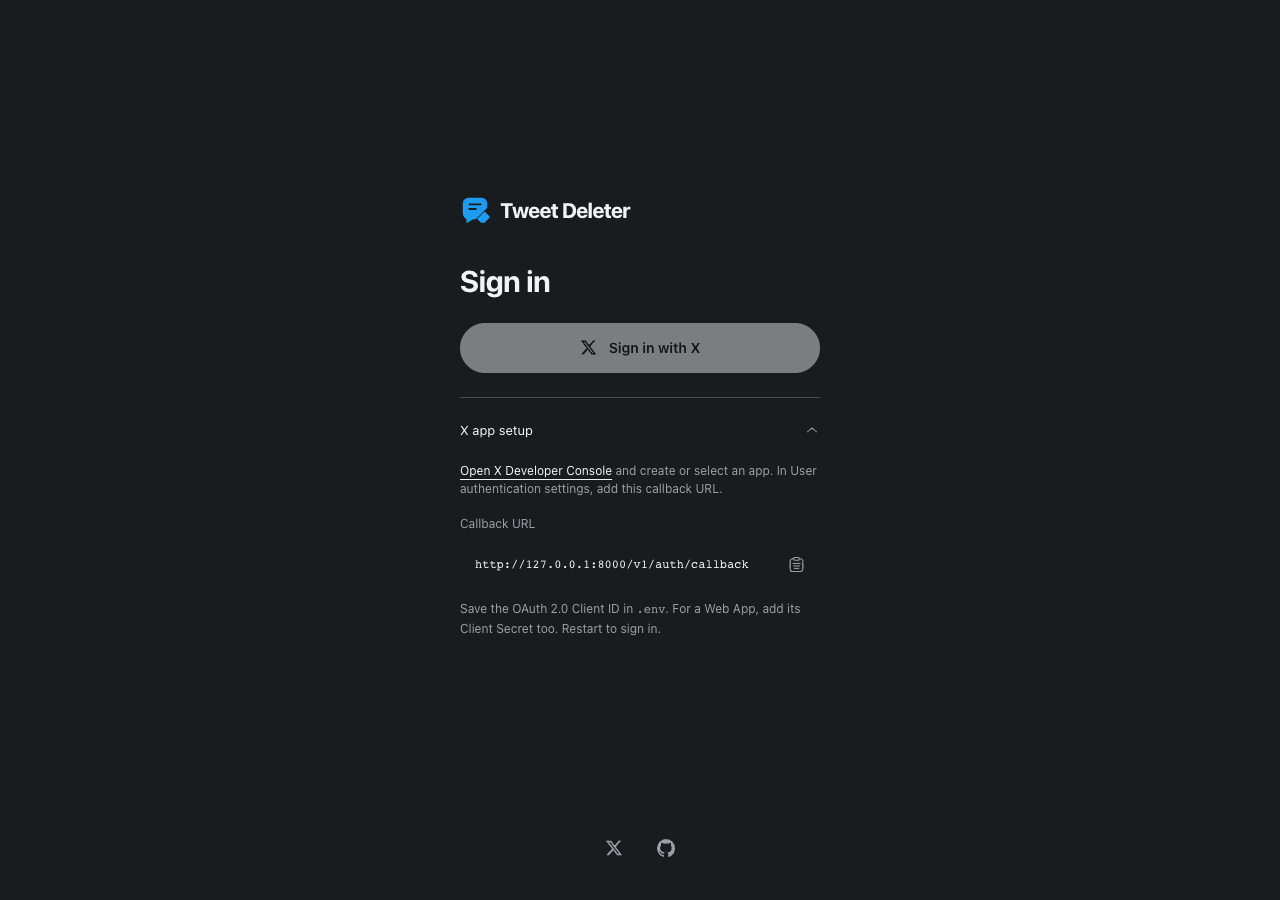
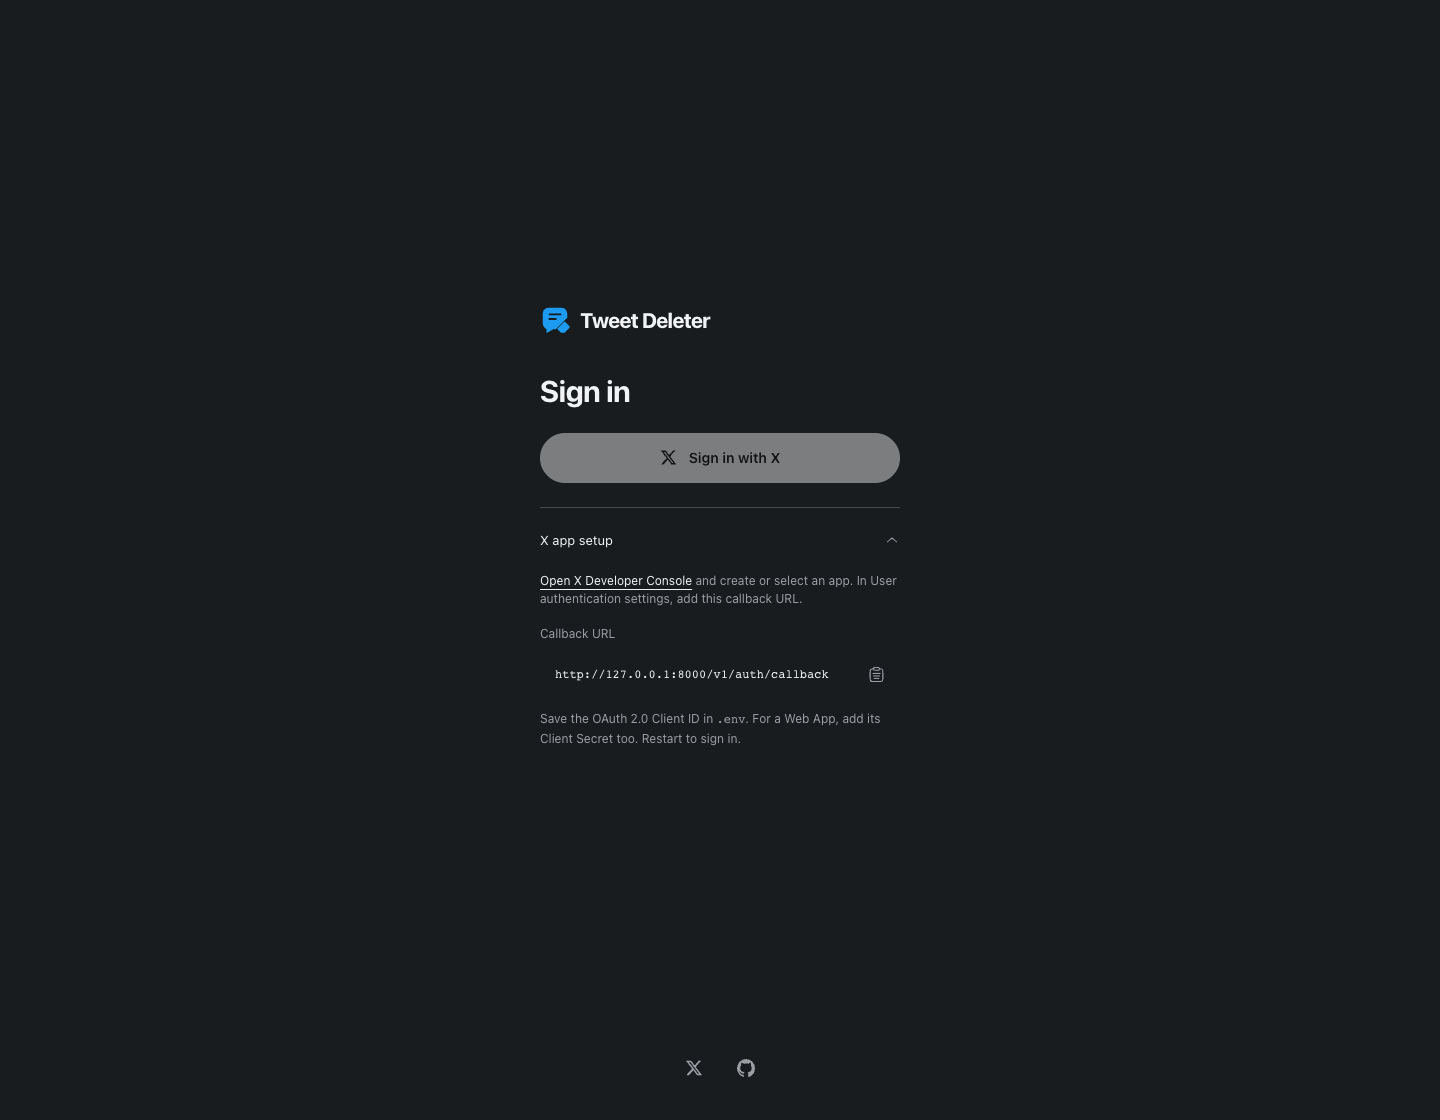
Match README screenshot dimensions

diff --git a/docs/screenshots/README.md b/docs/screenshots/README.md
@@ -39,6 +39,7 @@ cp output/playwright/sign-in-setup.png output/playwright/sign-in.png output/play
 ```
 
 The clock is fixed to 26 November 2026 for stable date groups and cooldown labels.
-Sign-in is 1280 × 800 and app setup is 1280 × 900; Posts and Activity are 1440 × 1120; Runner is 1440 × 1000.
+All five images use a 1440 × 1120 viewport so the README gallery has equal heights
+without stretching or cropping.
 Only the viewport and demo responses are staged; app styles and markup are unchanged.
 The additional review-modal capture stays in ignored output as a verification artifact.
